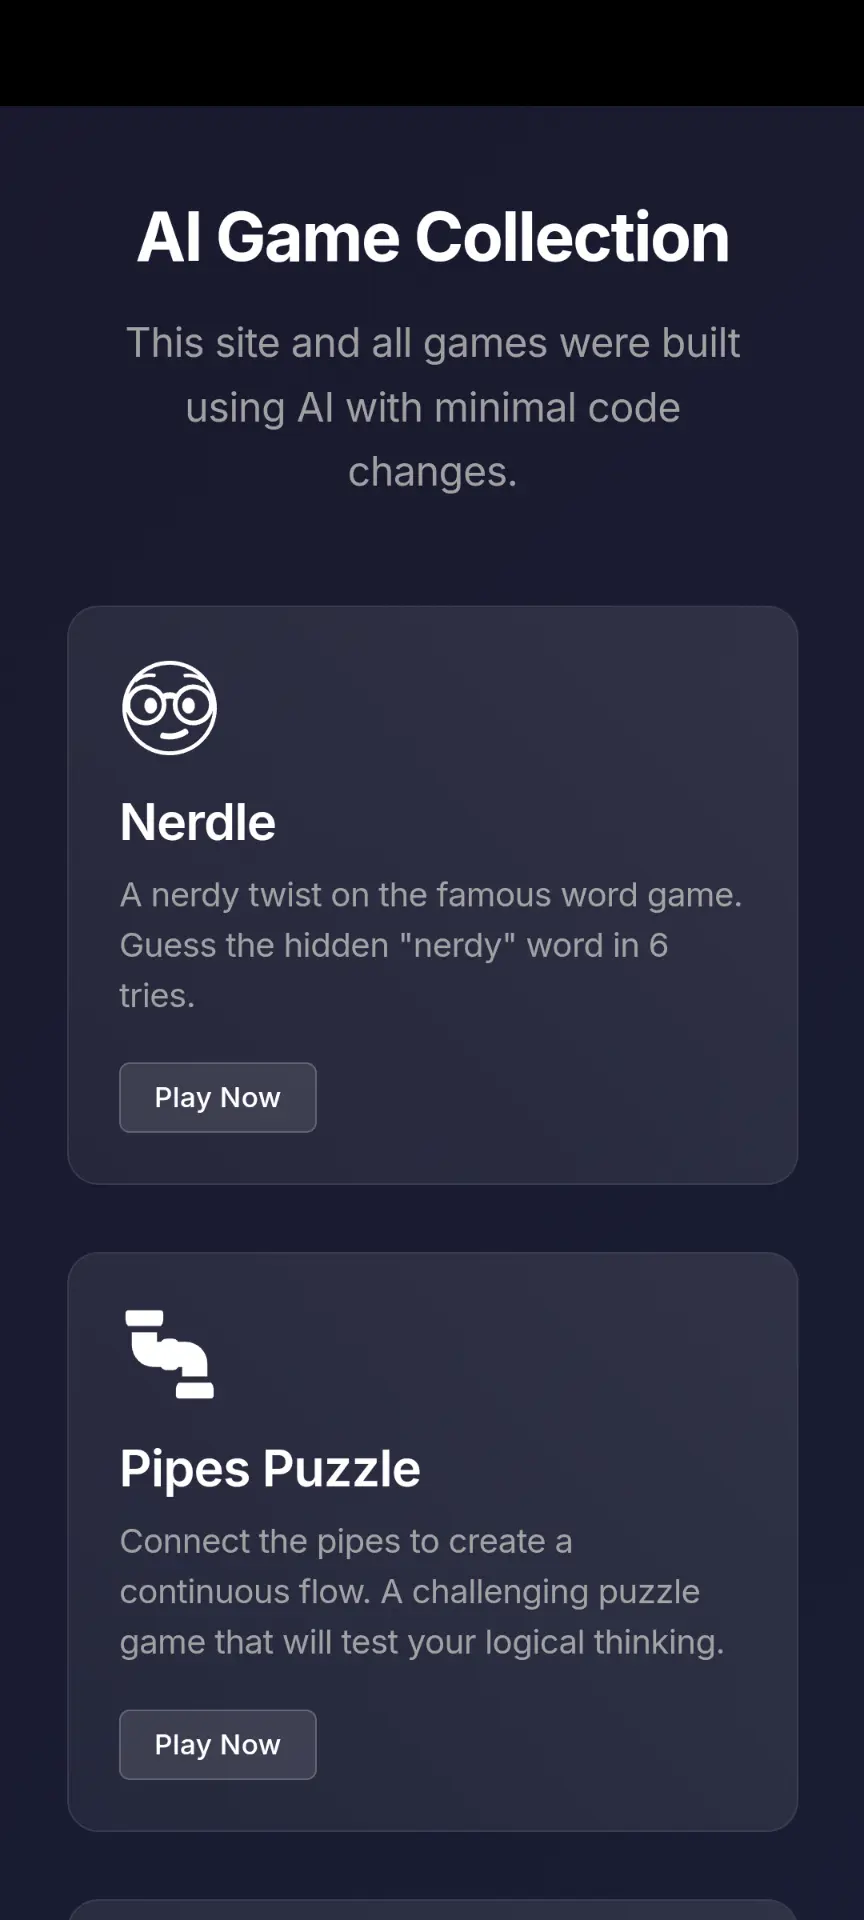
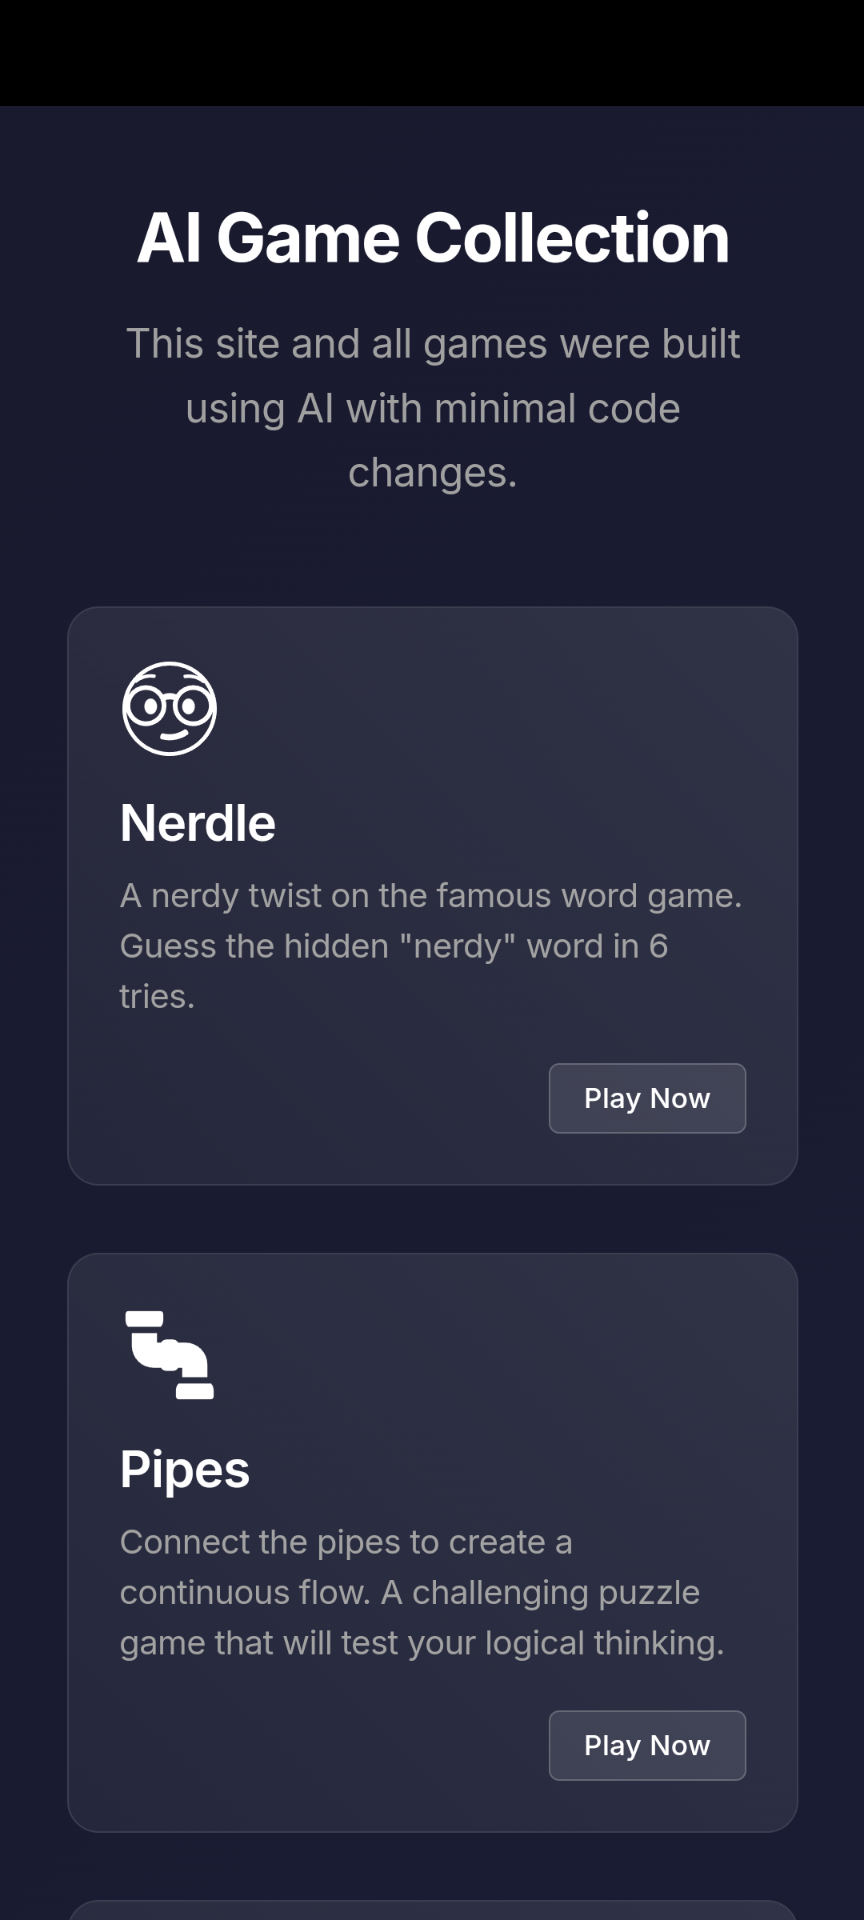
minor homepage tweak

diff --git a/index.html b/index.html
@@ -158,21 +158,23 @@
 		}
 
 		.play-button {
-		    display: inline-block;
-		    width: auto;
-		    max-width: fit-content;
-		    padding: 0.5rem 1rem;
-		    background: rgba(255, 255, 255, 0.1);
-		    border: 1px solid rgba(255, 255, 255, 0.2);
-		    border-radius: 5px;
-		    color: #fff;
-		    text-decoration: none;
-		    transition: all 0.3s ease;
-		    margin-top: auto;
-		    text-align: left;
-		    cursor: pointer;
-		    font-weight: 500;
-		    letter-spacing: 0.01em;
+					display: inline-block;
+					width: auto;
+					max-width: fit-content;
+					padding: 0.5rem 1rem;
+					background: rgba(255, 255, 255, 0.1);
+					border: 1px solid rgba(255, 255, 255, 0.2);
+					border-radius: 5px;
+					color: #fff;
+					text-decoration: none;
+					transition: all 0.3s ease;
+					margin-top: auto;
+					margin-left: auto;
+					text-align: left;
+					cursor: pointer;
+					font-weight: 500;
+					letter-spacing: 0.01em;
+					align-self: flex-end;
 		}
 
 		.play-button:hover {
